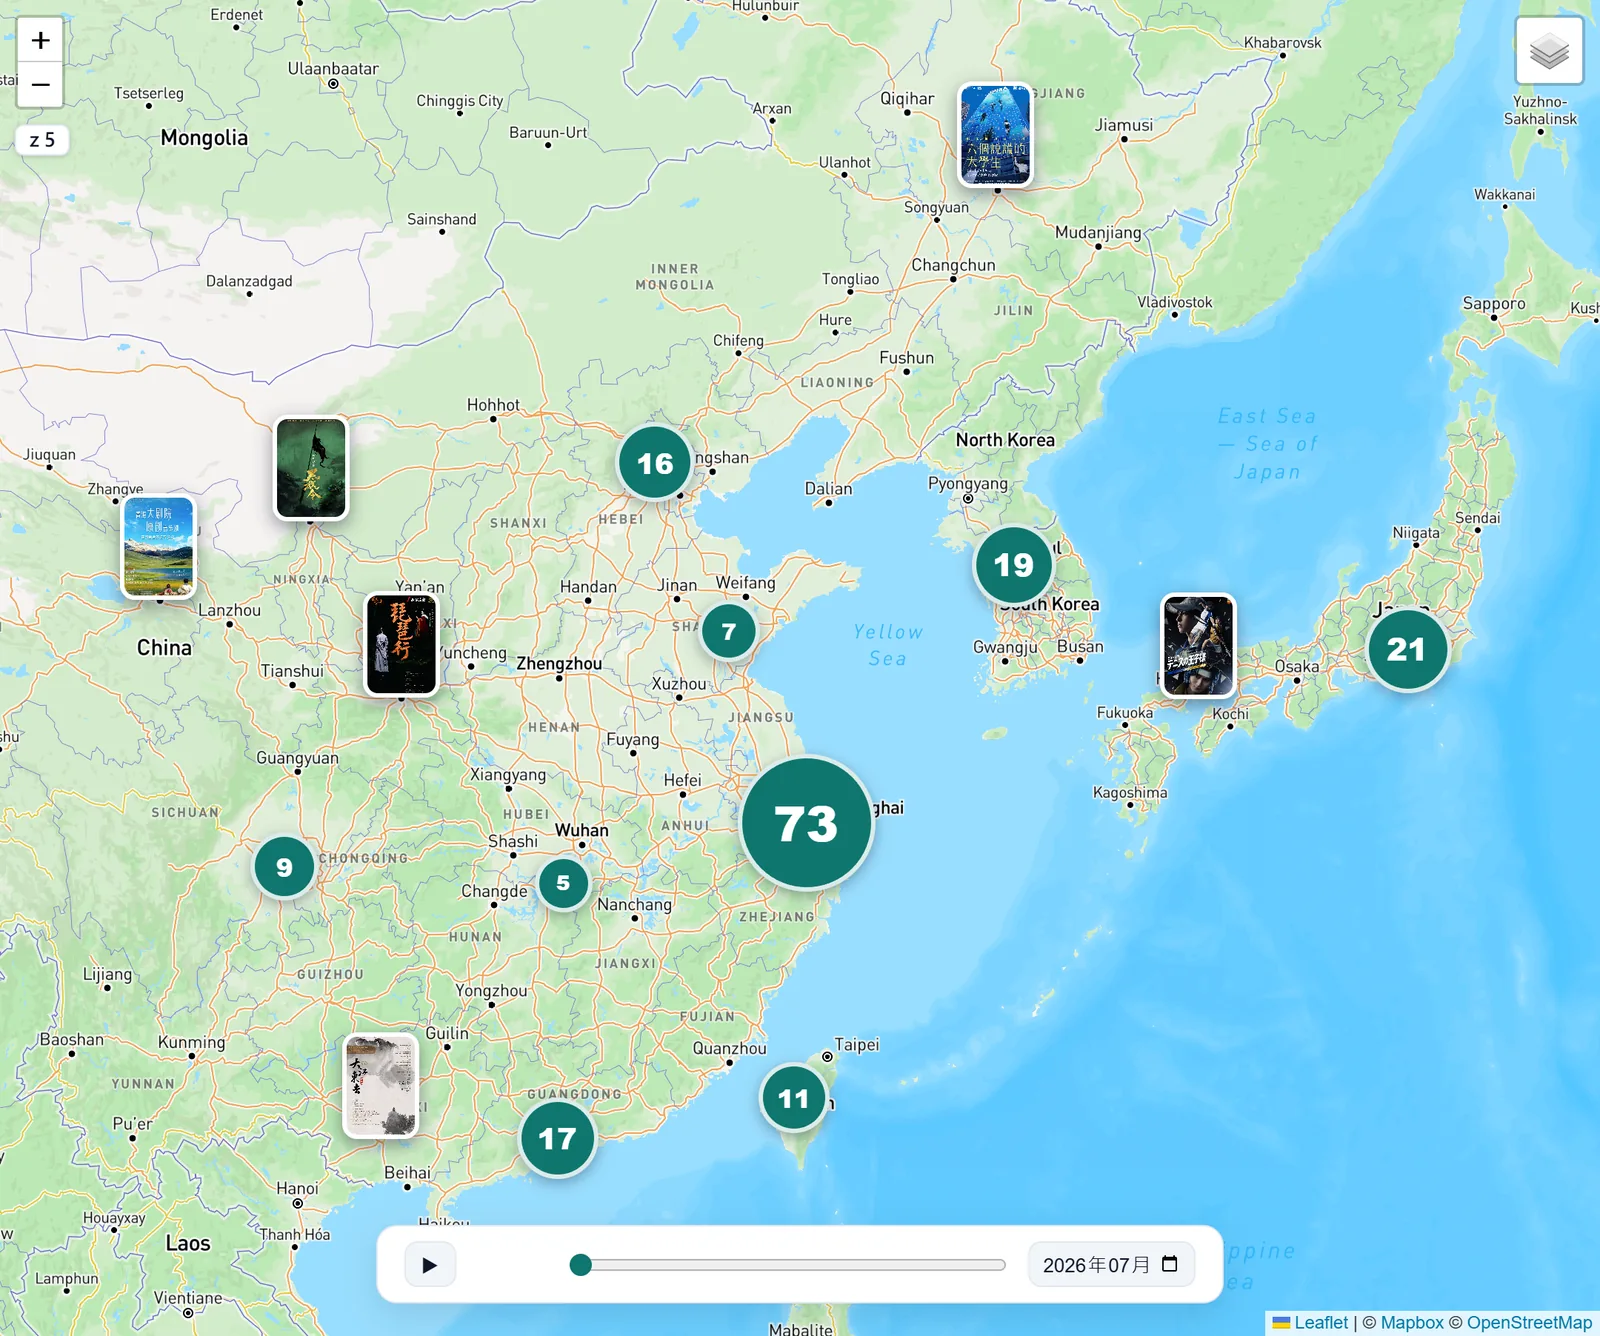
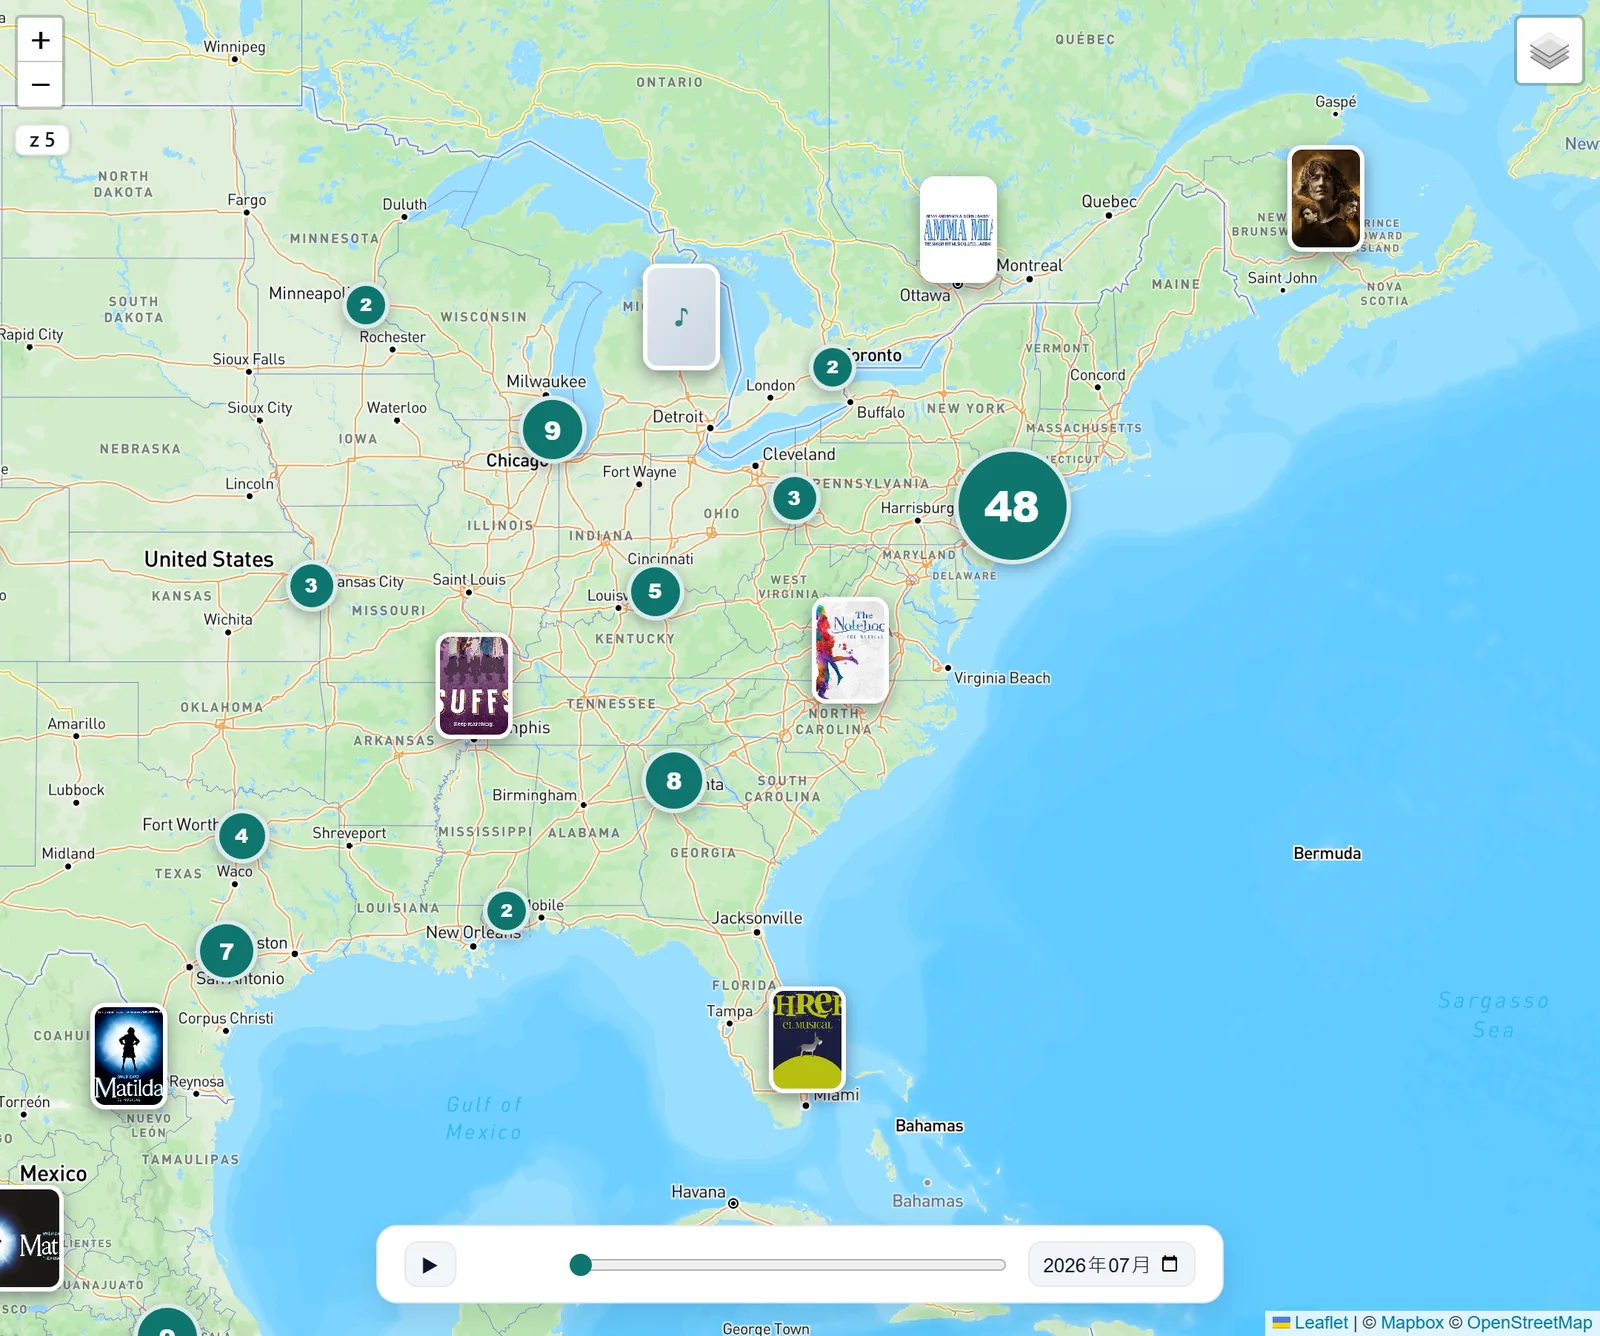
chore(guide/nav): v1.16.3 — 地圖截圖換美東視角 + 全站暫藏「所有劇院」入口
- guide map.webp 換美東(紐約 48 圈+海報+時間軸);NYC 特寫試拍棄用
- 所有劇院連結:guide/me/u nav + gen_site 模板註解,本機重產三語首頁
- playwright 驗證四頁不可見、其餘 nav 正常;theatres.html 頁面保留可直達

Claude-Session: https://claude.ai/code/session_0186uzADaDHatKdGVQckDbCk

diff --git a/en/index.html b/en/index.html
@@ -22,7 +22,7 @@
   <link rel="stylesheet" href="https://unpkg.com/leaflet@1.9.4/dist/leaflet.css" integrity="sha384-sHL9NAb7lN7rfvG5lfHpm643Xkcjzp4jFvuavGOndn6pjVqS6ny56CAt3nsEVT4H" crossorigin="anonymous" />
   <link rel="stylesheet" href="https://unpkg.com/leaflet.markercluster@1.5.3/dist/MarkerCluster.css" integrity="sha384-pmjIAcz2bAn0xukfxADbZIb3t8oRT9Sv0rvO+BR5Csr6Dhqq+nZs59P0pPKQJkEV" crossorigin="anonymous" />
   <link rel="stylesheet" href="https://unpkg.com/leaflet.markercluster@1.5.3/dist/MarkerCluster.Default.css" integrity="sha384-wgw+aLYNQ7dlhK47ZPK7FRACiq7ROZwgFNg0m04avm4CaXS+Z9Y7nMu8yNjBKYC+" crossorigin="anonymous" />
-  <link rel="stylesheet" href="/MusicalMap/css/style.css?v=36edf4484b" />
+  <link rel="stylesheet" href="/MusicalMap/css/style.css?v=37135b298f" />
   <script>window.MM_VARIANT="en";window.MM_BASE="/MusicalMap/";</script>
 </head>
 <body>
@@ -42,7 +42,8 @@
       </div>
       <a class="foot-link" href="/MusicalMap/privacy.html?lang=en">Privacy</a>
       <a class="foot-link" href="/MusicalMap/terms.html?lang=en">Terms</a>
-      <a class="nav-link" href="/MusicalMap/theatres.html?lang=en">🎭 All theatres</a>
+      <!-- 所有劇院入口暫藏(2026-07-03 指示;theatres.html 頁面保留可直達)
+      <a class="nav-link" href="/MusicalMap/theatres.html?lang=en">🎭 All theatres</a> -->
       <a class="nav-link" href="/MusicalMap/guide.html?hl=en">Guide</a>
       <a id="mine-link" class="nav-cta" href="/MusicalMap/me.html?lang=en">⭐ My Musicals</a>
     </nav>
@@ -1800,8 +1801,8 @@
 
   <script src="https://unpkg.com/leaflet@1.9.4/dist/leaflet.js" integrity="sha384-cxOPjt7s7Iz04uaHJceBmS+qpjv2JkIHNVcuOrM+YHwZOmJGBXI00mdUXEq65HTH" crossorigin="anonymous"></script>
   <script src="https://unpkg.com/leaflet.markercluster@1.5.3/dist/leaflet.markercluster.js" integrity="sha384-eXVCORTRlv4FUUgS/xmOyr66XBVraen8ATNLMESp92FKXLAMiKkerixTiBvXriZr" crossorigin="anonymous"></script>
-  <script src="/MusicalMap/js/config.js?v=36edf4484b"></script>
-  <script src="/MusicalMap/js/i18n.js?v=36edf4484b"></script>
-  <script src="/MusicalMap/js/app.js?v=36edf4484b"></script>
+  <script src="/MusicalMap/js/config.js?v=37135b298f"></script>
+  <script src="/MusicalMap/js/i18n.js?v=37135b298f"></script>
+  <script src="/MusicalMap/js/app.js?v=37135b298f"></script>
 </body>
 </html>

diff --git a/zh-hans/index.html b/zh-hans/index.html
@@ -22,7 +22,7 @@
   <link rel="stylesheet" href="https://unpkg.com/leaflet@1.9.4/dist/leaflet.css" integrity="sha384-sHL9NAb7lN7rfvG5lfHpm643Xkcjzp4jFvuavGOndn6pjVqS6ny56CAt3nsEVT4H" crossorigin="anonymous" />
   <link rel="stylesheet" href="https://unpkg.com/leaflet.markercluster@1.5.3/dist/MarkerCluster.css" integrity="sha384-pmjIAcz2bAn0xukfxADbZIb3t8oRT9Sv0rvO+BR5Csr6Dhqq+nZs59P0pPKQJkEV" crossorigin="anonymous" />
   <link rel="stylesheet" href="https://unpkg.com/leaflet.markercluster@1.5.3/dist/MarkerCluster.Default.css" integrity="sha384-wgw+aLYNQ7dlhK47ZPK7FRACiq7ROZwgFNg0m04avm4CaXS+Z9Y7nMu8yNjBKYC+" crossorigin="anonymous" />
-  <link rel="stylesheet" href="/MusicalMap/css/style.css?v=36edf4484b" />
+  <link rel="stylesheet" href="/MusicalMap/css/style.css?v=37135b298f" />
   <script>window.MM_VARIANT="zh-hans";window.MM_BASE="/MusicalMap/";</script>
   <script src="https://cdn.jsdelivr.net/npm/opencc-js@1.3.1/dist/umd/t2cn.js" integrity="sha384-P/OaFUnOIAgMkLxsXIAaP6WO3Wm09591cGX5bHbW4eCOeDxH9L8U3aWYf4cE4SYl" crossorigin="anonymous"></script>
 </head>
@@ -43,7 +43,8 @@
       </div>
       <a class="foot-link" href="/MusicalMap/privacy.html?lang=zh-hans">隐私权政策</a>
       <a class="foot-link" href="/MusicalMap/terms.html?lang=zh-hans">使用条款</a>
-      <a class="nav-link" href="/MusicalMap/theatres.html?lang=zh-hans">🎭 所有剧院</a>
+      <!-- 所有劇院入口暫藏(2026-07-03 指示;theatres.html 頁面保留可直達)
+      <a class="nav-link" href="/MusicalMap/theatres.html?lang=zh-hans">🎭 所有剧院</a> -->
       <a class="nav-link" href="/MusicalMap/guide.html?hl=zh-hans">使用说明</a>
       <a id="mine-link" class="nav-cta" href="/MusicalMap/me.html?lang=zh-hans">⭐ 我的音乐剧足迹</a>
     </nav>
@@ -1801,8 +1802,8 @@
 
   <script src="https://unpkg.com/leaflet@1.9.4/dist/leaflet.js" integrity="sha384-cxOPjt7s7Iz04uaHJceBmS+qpjv2JkIHNVcuOrM+YHwZOmJGBXI00mdUXEq65HTH" crossorigin="anonymous"></script>
   <script src="https://unpkg.com/leaflet.markercluster@1.5.3/dist/leaflet.markercluster.js" integrity="sha384-eXVCORTRlv4FUUgS/xmOyr66XBVraen8ATNLMESp92FKXLAMiKkerixTiBvXriZr" crossorigin="anonymous"></script>
-  <script src="/MusicalMap/js/config.js?v=36edf4484b"></script>
-  <script src="/MusicalMap/js/i18n.js?v=36edf4484b"></script>
-  <script src="/MusicalMap/js/app.js?v=36edf4484b"></script>
+  <script src="/MusicalMap/js/config.js?v=37135b298f"></script>
+  <script src="/MusicalMap/js/i18n.js?v=37135b298f"></script>
+  <script src="/MusicalMap/js/app.js?v=37135b298f"></script>
 </body>
 </html>

diff --git a/zh-hant/index.html b/zh-hant/index.html
@@ -22,7 +22,7 @@
   <link rel="stylesheet" href="https://unpkg.com/leaflet@1.9.4/dist/leaflet.css" integrity="sha384-sHL9NAb7lN7rfvG5lfHpm643Xkcjzp4jFvuavGOndn6pjVqS6ny56CAt3nsEVT4H" crossorigin="anonymous" />
   <link rel="stylesheet" href="https://unpkg.com/leaflet.markercluster@1.5.3/dist/MarkerCluster.css" integrity="sha384-pmjIAcz2bAn0xukfxADbZIb3t8oRT9Sv0rvO+BR5Csr6Dhqq+nZs59P0pPKQJkEV" crossorigin="anonymous" />
   <link rel="stylesheet" href="https://unpkg.com/leaflet.markercluster@1.5.3/dist/MarkerCluster.Default.css" integrity="sha384-wgw+aLYNQ7dlhK47ZPK7FRACiq7ROZwgFNg0m04avm4CaXS+Z9Y7nMu8yNjBKYC+" crossorigin="anonymous" />
-  <link rel="stylesheet" href="/MusicalMap/css/style.css?v=36edf4484b" />
+  <link rel="stylesheet" href="/MusicalMap/css/style.css?v=37135b298f" />
   <script>window.MM_VARIANT="zh-hant";window.MM_BASE="/MusicalMap/";</script>
 </head>
 <body>
@@ -42,7 +42,8 @@
       </div>
       <a class="foot-link" href="/MusicalMap/privacy.html?lang=zh-hant">隱私權政策</a>
       <a class="foot-link" href="/MusicalMap/terms.html?lang=zh-hant">使用條款</a>
-      <a class="nav-link" href="/MusicalMap/theatres.html?lang=zh-hant">🎭 所有劇院</a>
+      <!-- 所有劇院入口暫藏(2026-07-03 指示;theatres.html 頁面保留可直達)
+      <a class="nav-link" href="/MusicalMap/theatres.html?lang=zh-hant">🎭 所有劇院</a> -->
       <a class="nav-link" href="/MusicalMap/guide.html">使用說明</a>
       <a id="mine-link" class="nav-cta" href="/MusicalMap/me.html?lang=zh-hant">⭐ 我的音樂劇足跡</a>
     </nav>
@@ -1800,8 +1801,8 @@
 
   <script src="https://unpkg.com/leaflet@1.9.4/dist/leaflet.js" integrity="sha384-cxOPjt7s7Iz04uaHJceBmS+qpjv2JkIHNVcuOrM+YHwZOmJGBXI00mdUXEq65HTH" crossorigin="anonymous"></script>
   <script src="https://unpkg.com/leaflet.markercluster@1.5.3/dist/leaflet.markercluster.js" integrity="sha384-eXVCORTRlv4FUUgS/xmOyr66XBVraen8ATNLMESp92FKXLAMiKkerixTiBvXriZr" crossorigin="anonymous"></script>
-  <script src="/MusicalMap/js/config.js?v=36edf4484b"></script>
-  <script src="/MusicalMap/js/i18n.js?v=36edf4484b"></script>
-  <script src="/MusicalMap/js/app.js?v=36edf4484b"></script>
+  <script src="/MusicalMap/js/config.js?v=37135b298f"></script>
+  <script src="/MusicalMap/js/i18n.js?v=37135b298f"></script>
+  <script src="/MusicalMap/js/app.js?v=37135b298f"></script>
 </body>
 </html>

diff --git a/guide.html b/guide.html
@@ -126,7 +126,7 @@ footer .sp{margin-left:auto}
   <a class="brand" href="index.html"><img src="logo.png" alt="" />Musical<b>Map</b></a>
   <nav class="nav">
     <a href="index.html" data-i18n="nav_map">演出地圖</a>
-    <a href="theatres.html" data-i18n="nav_theatres">所有劇院</a>
+    <!-- 所有劇院入口暫藏(2026-07-03 指示;theatres.html 頁面保留可直達) <a href="theatres.html" data-i18n="nav_theatres">所有劇院</a> -->
     <div class="hl-pick" role="group" aria-label="Language / 語言">
       <a data-hl-link="zh-hant" href="?hl=zh-hant">繁</a>
       <a data-hl-link="zh-hans" href="?hl=zh-hans">简</a>

diff --git a/me.html b/me.html
@@ -38,7 +38,7 @@ if(v==='zh-hans')document.write('<scr'+'ipt src="https://cdn.jsdelivr.net/npm/op
 <header><div class="wrap bar">
   <a class="brand" href="index.html"><img src="logo.png" alt="" class="brand-logo" />Musical<b>Map</b></a>
   <nav class="nav">
-    <a href="theatres.html" data-i18n="nav_theatres">所有劇院</a>
+    <!-- 所有劇院入口暫藏(2026-07-03 指示;theatres.html 頁面保留可直達) <a href="theatres.html" data-i18n="nav_theatres">所有劇院</a> -->
     <a href="index.html" data-i18n="nav_map">演出地圖</a>
     <a href="guide.html" data-i18n="nav_guide">使用說明</a>
     <div class="hl-pick" role="group" aria-label="Language / 語言">

diff --git a/u.html b/u.html
@@ -35,7 +35,7 @@ if(v==='zh-hans')document.write('<scr'+'ipt src="https://cdn.jsdelivr.net/npm/op
 <header><div class="wrap bar">
   <a class="brand" href="index.html"><img src="logo.png" alt="" class="brand-logo" />Musical<b>Map</b></a>
   <nav class="nav">
-    <a href="theatres.html" data-i18n="nav_theatres">所有劇院</a>
+    <!-- 所有劇院入口暫藏(2026-07-03 指示;theatres.html 頁面保留可直達) <a href="theatres.html" data-i18n="nav_theatres">所有劇院</a> -->
     <a href="index.html" data-i18n="nav_map">演出地圖</a>
     <a href="guide.html" data-i18n="nav_guide">使用說明</a>
     <div class="hl-pick" role="group" aria-label="Language / 語言">

diff --git a/CHANGELOG.md b/CHANGELOG.md
@@ -11,6 +11,12 @@
 
 ---
 
+## [v1.16.3] - 2026-07-03 09:58
+### 調整 — guide 地圖截圖換美東(紐約)視角;全站暫藏「所有劇院」入口
+- **guide 地圖 fig 換視角**:亞洲視角 → 美東視角(NYC「48」聚合圈醒目,Mamma Mia/LOTR/Suffs/The Notebook/Matilda 海報+各城市圓圈+月份時間軸)。也試拍 NYC 特寫(z7)但資訊密度低+有未載入空卡,棄用。`map.webp` 同尺寸 1600×1336 覆蓋,HTML 不用改。
+- **「所有劇院」連結全站暫藏**(theatres.html 頁面保留、可直達、sitemap 續收):`guide.html`/`me.html`/`u.html` nav 註解掉;`gen_site.mjs` 模板註解 + 本機重產三語首頁(en/zh-hans/zh-hant)。要恢復時解註解+重跑 gen_site 即可。
+- **驗證**:playwright 開 index(zh-hant)/guide/me/u 四頁,「所有劇院」皆不可見、其餘 nav 連結正常。
+
 ## [v1.16.2] - 2026-07-03 09:19
 ### 修正 — guide 頁全面體檢:手機版壞版、內文不實宣稱、截圖錯置(Fable 5 重新檢視)
 - **手機版修復(390px 實測溢出 155px → 0)**:h1 `word-break:keep-all` + em nowrap 造成整頁橫向溢出、右緣文字被切 → 移除 keep-all(em 保留 nowrap,「音樂劇。」不拆字);header nav 無手機處理(「我的音樂劇」CTA 整顆被擠出畫面外、文字連結被壓成直排)→ ≤700px 收掉文字連結、≤430px 縮小 brand/CTA/語言切換;b3/b4 欄的 inline `border-left+44px` 手機殘留 → 改 `.copy.divided` class,堆疊時轉上緣分隔線。